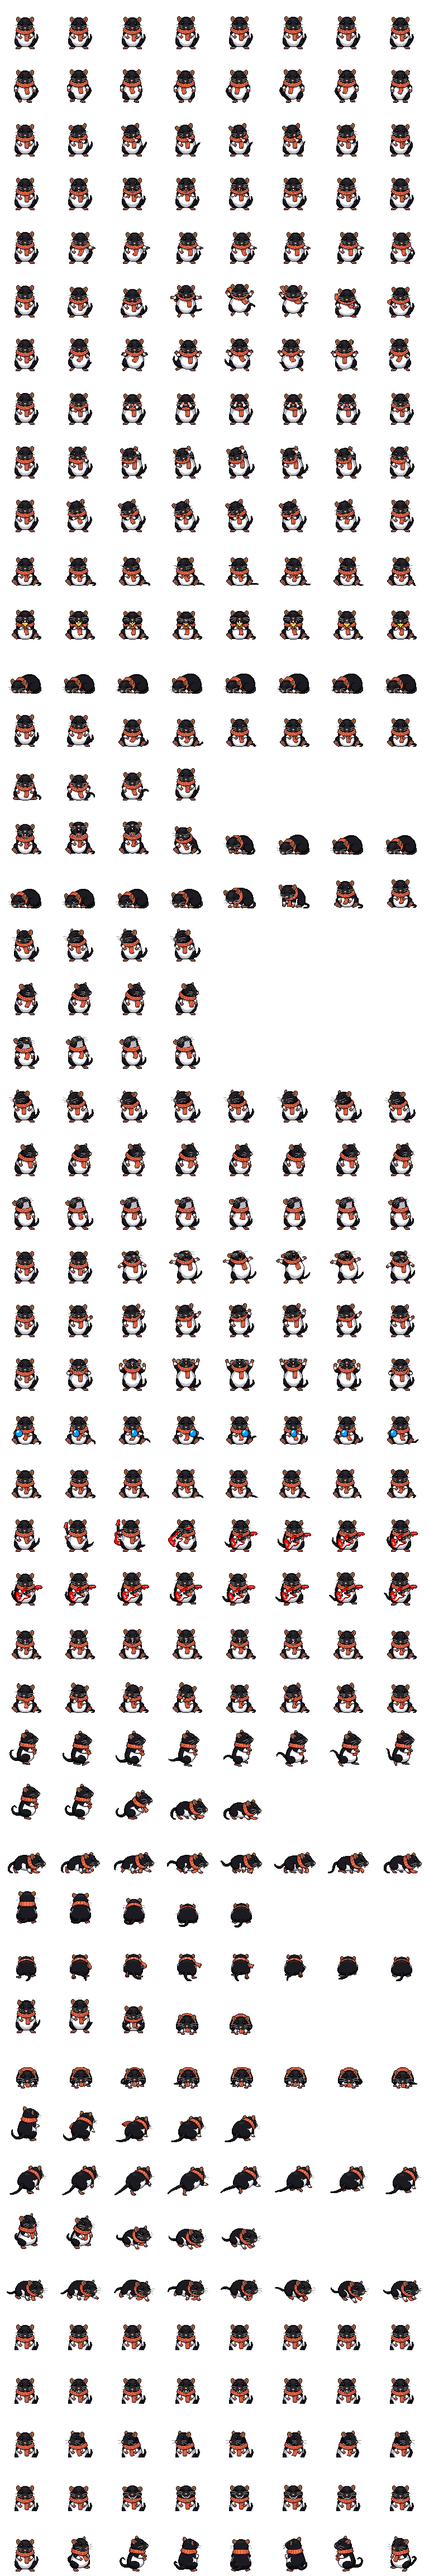
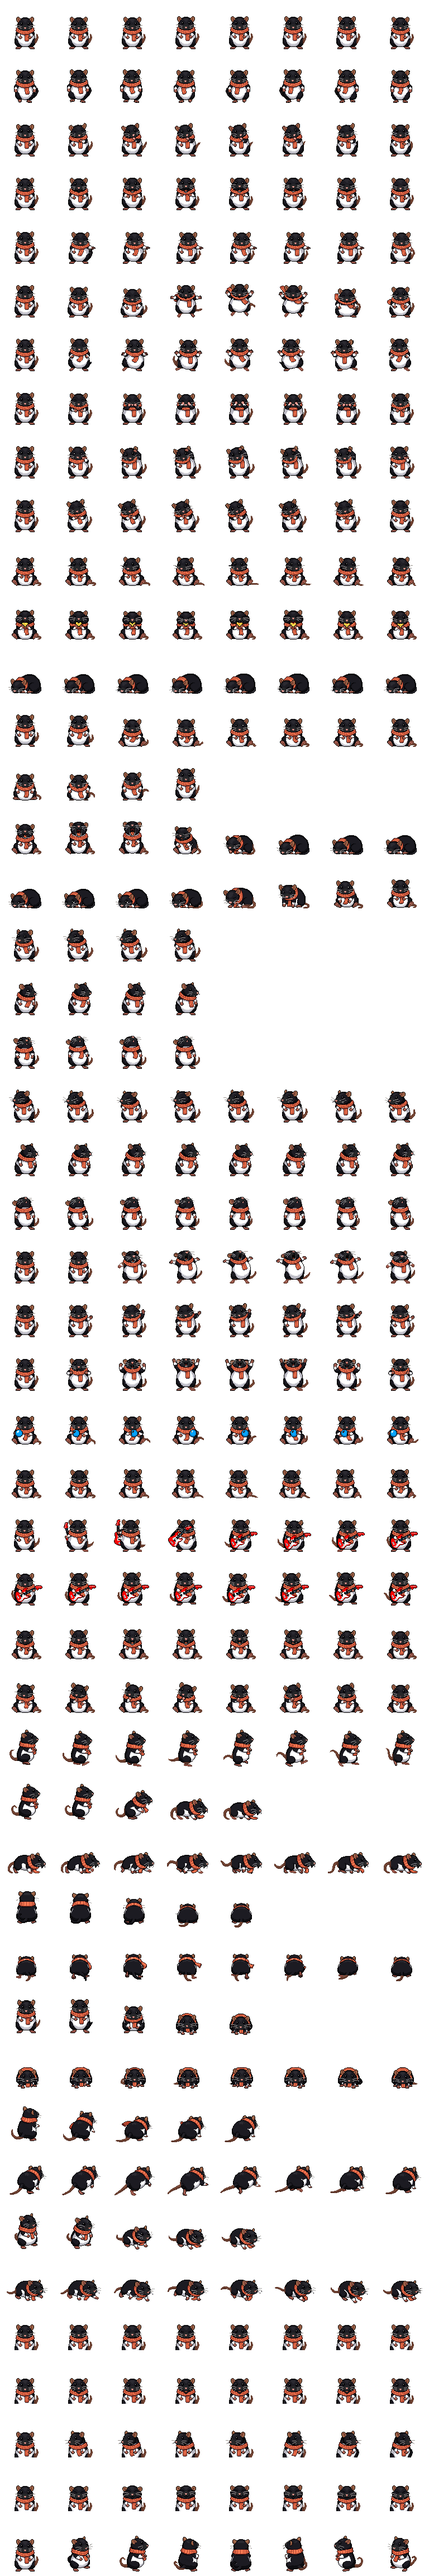
Dengas mais calmo: idle com pausas, gracinhas raras, cochilo, baixo na mao; rabo marrom e rosto preto no atlas

diff --git a/modelos/dengas/dengas.js b/modelos/dengas/dengas.js
@@ -72,7 +72,7 @@ const msgsEl = painel.querySelector('#dgMsgs'), chipsEl = painel.querySelector('
 
 /* ---------- onde ele está: (x, y) é o ponto dos pés ---------- */
 const salvo = Mesa.le('mesa-dengas', {});
-const D = { bolinha:salvo.bolinha || null, x:salvo.x ?? null, y:salvo.y ?? null, vy:0, dir:'e', alvo:null, modo:'parado', em:null, lado:1, alvoX:null, pose:'pe', pego:null, aberto:false, pensando:false, falandoAte:0, mouse:{ x:0, y:0, at:0 }, passeioEm:performance.now() + rnd(9000, 16000) };
+const D = { bolinha:salvo.bolinha || null, baixo:!!salvo.baixo, dorme:false, x:salvo.x ?? null, y:salvo.y ?? null, vy:0, dir:'e', alvo:null, modo:'parado', em:null, lado:1, alvoX:null, pose:'pe', pego:null, aberto:false, pensando:false, falandoAte:0, mouse:{ x:0, y:0, at:0 }, passeioEm:performance.now() + rnd(40000, 70000) };
 const chao = () => area().h - 24;   // ele pisa em cima do banquinho fundido na beira de baixo
 // superfícies onde ele pode ficar: a beira de baixo e o topo de cada widget (com espaço pra ele em cima)
 function superficies(){
@@ -81,7 +81,7 @@ function superficies(){
   return l;
 }
 function superficieAbaixo(x, y){ let m = null; for (const s of superficies()) if (x >= s.x0 - 20 && x <= s.x1 + 20 && s.y >= y - 6 && (!m || s.y < m.y)) m = s; return m || superficies()[0]; }
-function guardaLugar(){ Mesa.grava('mesa-dengas', { x:Math.round(D.x), y:Math.round(D.y), bolinha:D.bolinha }); }
+function guardaLugar(){ Mesa.grava('mesa-dengas', { x:Math.round(D.x), y:Math.round(D.y), bolinha:D.bolinha, baixo:D.baixo }); }
 const R_BOLA = 32, MARGEM = R_BOLA + 6;
 // onde a bolinha fica: grudada no lado (e no canto, se for canto), sempre inteira na tela
 function lugarBola(b){ const A = area(); return { x:b.lado === 'l' ? MARGEM : A.w - MARGEM, y:b.vert === 't' ? MARGEM : b.vert === 'b' ? A.h - MARGEM : clamp(b.y, MARGEM, A.h - MARGEM) }; }
@@ -91,38 +91,70 @@ function trocou(){ raiz.classList.remove('troca'); void raiz.offsetWidth; raiz.c
 const RASTRO = { arrasto:null, andou:null };
 Mesa.diagFonte('dengas', () => ({ x:Math.round(D.x), y:Math.round(D.y), modo:D.modo, pose:D.pose, alvo:D.alvo, area:area(), chao:chao(), limites:{ x:[30, area().w - 30], y:[110, chao()] }, mouse:D.mouse, ...RASTRO }));
 
-/* ---------- animação ---------- */
-let clipes = [], atual = null, chave = '', extraEm = performance.now() + 6000;
+/* ---------- animação ----------
+   Calmo por padrão: o laço parado roda devagar e com pausas (ele fica paradinho respirando, olhando);
+   gracinhas (espreguiçar, coçar, brincar…) são raras, sem repetir a anterior; sem nada acontecendo por
+   uns minutos, ele senta e cochila. Com o baixo na mão (D.baixo) ele fica com o baixo, tocando e parando,
+   até guardar: não saca e guarda toda hora. */
+let clipes = [], atual = null, chave = '', extraEm = performance.now() + rnd(40000, 70000), ultimaGracinha = '';
 const clip = (a, o = {}) => ({ a, t0:0, ...o });
+const GRACINHAS_PE = ['espreguicando', 'cocando', 'curioso', 'gracinha', 'brincando', 'acenando'];
+const GRACINHAS_SENTADO = ['balancando', 'bolinha', 'comendo'];
+function gracinha(lista){ const l = lista.filter(a => a !== ultimaGracinha); const a = sorteia(l); ultimaGracinha = a; return a; }
+// o laço calmo: uma volta devagar, depois parado num quadro por uns segundos
+const calmo = a => [clip(a, { ritmo:.6 }), clip(a, { segura:rnd(1800, 5200) })];
 function zonaOlhar(now){ if (now - D.mouse.at > 2600) return ''; const dx = D.mouse.x - D.x, dy = D.mouse.y - (D.y - 70); if (Math.hypot(dx, dy) < 130) return ''; if (dy < 0 && -dy > Math.abs(dx) * 1.2) return 'cima'; return dx < 0 ? 'esq' : 'dir'; }
 function proximos(now){
   const fala = now < D.falandoAte;
-  if (D.bolinha){ if (fala) return [clip('r_falando')]; if (D.pensando) return [clip('pensando')]; const r = Math.random(); return [clip(r < .6 ? 'r_piscando' : r < .86 ? 'r_olhando' : 'r_feliz')]; }
+  if (D.bolinha){ if (fala) return [clip('r_falando')]; if (D.pensando) return [clip('pensando')]; const r = Math.random(); return r < .7 ? [clip('r_piscando', { ritmo:.7 }), clip('r_piscando', { segura:rnd(2000, 5000) })] : [clip(r < .9 ? 'r_olhando' : 'r_feliz', { ritmo:.8 })]; }
   if (D.modo === 'andando') return [clip(nomeCorre())];
   if (D.pego || D.modo === 'caindo') return [clip('parado')];
+  if (D.baixo){
+    // com o baixo: toca um pouco, para segurando o baixo, toca de novo
+    if (fala || D.pensando) return [clip('tocando_baixo', { segura:900 })];
+    return Math.random() < .55 ? [clip('tocando_baixo', { ritmo:.75 }), clip('tocando_baixo', { ritmo:.75 })] : [clip('tocando_baixo', { segura:rnd(1500, 4000) })];
+  }
   if (D.pose === 'sentado'){
+    if (D.dorme) return [clip('dormindo', { ritmo:.7 })];
     if (fala) return [clip('sentado_falando')];
     if (D.pensando) return [clip('sentado_pensando')];
-    if (now > extraEm){ extraEm = now + rnd(7000, 15000); const a = sorteia(['balancando', 'bolinha', 'comendo', 'balancando']); return [clip(a), clip(a)]; }
-    return [clip('observando')];
+    if (now > extraEm){ extraEm = now + rnd(50000, 120000); const a = gracinha(GRACINHAS_SENTADO); return [clip(a, { ritmo:.85 }), clip(a, { ritmo:.85 })]; }
+    return calmo('observando');
   }
   if (fala) return [clip('falando')];
   if (D.pensando) return [clip('pensando')];
   const z = zonaOlhar(now);
-  if (z) return [clip('t_olha_' + z), clip('olhando_' + z, { laco:() => zonaOlhar(performance.now()) === z && !D.pego && D.modo === 'parado' }), clip('t_olha_' + z, { rev:true })];
-  if (now > extraEm){ extraEm = now + rnd(8000, 16000); return [clip(sorteia(['espreguicando', 'cocando', 'curioso', 'gracinha', 'brincando', 'acenando']))]; }
-  return [clip('parado')];
+  if (z) return [clip('t_olha_' + z), clip('olhando_' + z, { ritmo:.7, laco:() => zonaOlhar(performance.now()) === z && !D.pego && D.modo === 'parado' }), clip('t_olha_' + z, { rev:true })];
+  if (now > extraEm){ extraEm = now + rnd(45000, 110000); return [clip(gracinha(GRACINHAS_PE), { ritmo:.85 })]; }
+  return calmo('parado');
 }
 function toca(lista){ clipes = lista; atual = null; }
+// cochilo: sentado e sem ninguém mexendo por perto há 3 min, ele dorme; mexeu o mouse perto, clicou ou falou, acorda
+let quietoDesde = performance.now();
+function cochilo(now){
+  if (D.dorme){ if (D.aberto || D.pensando || now < D.falandoAte || D.baixo || D.pose !== 'sentado') acorda(); return; }
+  if (D.pose === 'sentado' && !D.bolinha && !D.baixo && !D.aberto && !D.pensando && now - quietoDesde > 180000){ D.dorme = true; toca([clip('t_sentado_dormindo')]); }
+}
+function acorda(){ quietoDesde = performance.now(); if (!D.dorme) return; D.dorme = false; toca([clip('t_dormindo_sentado')]); }
+// o mini baixo: saca uma vez e fica com ele até guardar
+function pegaBaixo(sim){
+  sim = !!sim; if (D.baixo === sim) return false;
+  if (D.bolinha) desvirarBola();
+  acorda(); if (D.pose === 'sentado'){ D.pose = 'pe'; raiz.classList.remove('sentado'); }
+  D.baixo = sim; D.alvo = null; guardaLugar();
+  toca([clip('t_baixo', sim ? {} : { rev:true })]); chave = 'troca-baixo';
+  return true;
+}
 function senta(sim){
   if ((D.pose === 'sentado') === sim) return;
   D.pose = sim ? 'sentado' : 'pe'; raiz.classList.toggle('sentado', sim);
   toca([clip(sim ? 't_parado_sentado' : 't_sentado_parado')]); chave = '';
 }
 function desenha(now){
-  const k = (D.bolinha ? 'b' : '') + D.modo + D.pose + (D.pensando ? 't' : '') + (now < D.falandoAte ? 'f' : '') + (D.pego ? 'd' : '');
-  if (k !== chave){ if (chave && ![atual, clipes[0]].some(q => q && /^t_(parado_sentado|sentado_parado|quatro_\w+)$/.test(q.a))) { clipes = []; atual = null; } chave = k; }
-  let m = atual && AT.anims[atual.a], c = m ? Math.floor((now - atual.t0) * m.fps / 1000) : 0;
+  const k = (D.bolinha ? 'b' : '') + (D.baixo ? 'B' : '') + (D.dorme ? 'z' : '') + D.modo + D.pose + (D.pensando ? 't' : '') + (now < D.falandoAte ? 'f' : '') + (D.pego ? 'd' : '');
+  if (k !== chave){ if (chave && ![atual, clipes[0]].some(q => q && /^t_(parado_sentado|sentado_parado|quatro_\w+|baixo|sentado_dormindo|dormindo_sentado)$/.test(q.a))) { clipes = []; atual = null; } chave = k; }
+  let m = atual && AT.anims[atual.a], c = m ? Math.floor((now - atual.t0) * m.fps * (atual.ritmo || 1) / 1000) : 0;
+  if (m && atual.segura) c = now - atual.t0 < atual.segura ? 0 : m.n;
   if (!m || c >= m.n){
     if (m && atual.laco && atual.laco()) atual.t0 = now;
     else { if (!clipes.length) clipes = proximos(now); atual = clipes.shift(); atual.t0 = now; m = AT.anims[atual.a] || AT.anims.parado; }
@@ -165,8 +197,9 @@ function passo(now){
       }
     } else {
       if (D.modo === 'andando') D.modo = 'parado';
-      if (D.pose === 'pe' && !D.aberto && !D.pensando && now > (D.sentaEm || Infinity) && now > D.falandoAte){ senta(true); D.sentaEm = null; }
-      if (!D.bolinha && !D.aberto && !D.pensando && now > D.passeioEm && now - D.mouse.at > 4000){ D.passeioEm = now + rnd(16000, 38000); vai(rnd(60, A.w - 60), rnd(170, chao())); }
+      cochilo(now);
+      if (D.pose === 'pe' && !D.baixo && !D.aberto && !D.pensando && now > (D.sentaEm || Infinity) && now > D.falandoAte){ senta(true); D.sentaEm = null; }
+      if (!D.bolinha && !D.baixo && !D.dorme && !D.aberto && !D.pensando && now > D.passeioEm && now - D.mouse.at > 4000){ D.passeioEm = now + rnd(50000, 120000); vai(rnd(60, A.w - 60), rnd(170, chao())); }
     }
   }
   if (D.bolinha){ D.x = clamp(D.x, MARGEM, A.w - MARGEM); D.y = clamp(D.y, MARGEM, A.h - MARGEM); } else { D.x = clamp(D.x, 30, A.w - 30); D.y = clamp(D.y, 110, chao()); }
@@ -178,11 +211,11 @@ function passo(now){
 const reduzido = matchMedia('(prefers-reduced-motion: reduce)').matches;
 atlas.onload = () => Mesa.quadro(passo);
 if (atlas.complete && atlas.naturalWidth) Mesa.quadro(passo);
-bus.on('mesa:mouse', p => { if (Math.abs(p.x - D.mouse.x) + Math.abs(p.y - D.mouse.y) > 3){ D.mouse.x = p.x; D.mouse.y = p.y; D.mouse.at = performance.now(); } });
+bus.on('mesa:mouse', p => { if (Math.abs(p.x - D.mouse.x) + Math.abs(p.y - D.mouse.y) > 3){ D.mouse.x = p.x; D.mouse.y = p.y; D.mouse.at = performance.now(); if (Math.hypot(p.x - D.x, p.y - D.y) < 220) acorda(); } });
 
 /* pegar e soltar: vira arrasto depois de 4 px; soltou, ele cai até a superfície de baixo */
 let gesto = null;
-hit.addEventListener('pointerdown', e => { if (e.button !== 0) return; gesto = { id:e.pointerId, x0:e.clientX, y0:e.clientY, on:false }; });
+hit.addEventListener('pointerdown', e => { if (e.button !== 0) return; acorda(); gesto = { id:e.pointerId, x0:e.clientX, y0:e.clientY, on:false }; });
 hit.addEventListener('pointermove', e => {
   if (!gesto || e.pointerId !== gesto.id) return;
   if (e.buttons === 0) return larga();
@@ -234,6 +267,7 @@ function pintaChips(){
   chipsEl.replaceChildren();
   const l = [];
   for (const d of Mesa.defs()) if (!Mesa.aberto(d.id) && l.length < 3) l.push(['Abrir ' + d.nome, () => { Mesa.abre(d.id); pintaChips(); }]);
+  l.push(D.baixo ? ['Guardar o baixo', () => { pegaBaixo(false); fala('Depois a gente toca mais.'); pintaChips(); }] : ['Bora tocar', () => { pegaBaixo(true); fala('Vamos lá!'); pintaChips(); }]);
   l.push(['Organiza a mesa', () => pergunta('Organiza os widgets abertos de um jeito bom pra esta tela, sem sobrepor.')]);
   if (Mesa.aberto('musica')) l.push(['O que tá tocando?', () => pergunta('O que tá tocando?')]);
   for (const [t, fn] of l.slice(0, 5)){ const b = document.createElement('button'); b.type = 'button'; b.className = 'dg-chip'; b.textContent = t; b.addEventListener('click', fn); chipsEl.appendChild(b); }
@@ -420,6 +454,9 @@ function ferramentas(atos){
     { name:'mesa_app', description:'Abre ou fecha um app original hospedado na Mesa (os ids estão em "apps" e nos disponíveis do estado; ex.: onda, orbita).',
       inputSchema:{ type:'object', properties:{ acao:{ type:'string', enum:['abrir','fechar'] }, id:{ type:'string' } }, required:['acao','id'] },
       execute({ acao, id }){ if (!Mesa.hospedes().some(h => h.id === id)) throw new Error('apps disponíveis: ' + Mesa.hospedes().map(h => h.id).join(', ')); acao === 'fechar' ? Mesa.fechaHospede(id) : Mesa.abreHospede(id); nota((acao === 'fechar' ? '× ' : '↗ ') + id); return 'feito'; } },
+    { name:'baixo', description:'Seu mini baixo. acao "pegar": quando o dono vai tocar, estudar ou praticar música, você saca o baixo e fica com ele na mão (diga algo como "vamos lá"). acao "guardar": quando ele terminar ou mudar de assunto. Não pegue e guarde à toa.',
+      inputSchema:{ type:'object', properties:{ acao:{ type:'string', enum:['pegar', 'guardar'] } }, required:['acao'] },
+      execute({ acao }){ const mudou = pegaBaixo(acao === 'pegar'); return mudou ? (acao === 'pegar' ? 'baixo na mão' : 'baixo guardado') : 'já estava assim'; } },
     { name:'lembrar', description:'Guarda uma frase curta sobre o dono (gosto, hábito, preferência) pra lembrar nas próximas conversas.',
       inputSchema:{ type:'object', properties:{ nota:{ type:'string' } }, required:['nota'] },
       execute({ nota:n }){ n = String(n || '').trim().slice(0, 160); if (!n) throw new Error('nota vazia'); mem.notas = ((mem.notas ? mem.notas + ' ' : '') + n).slice(-900); guardaMem(); nota('✎ anotado'); return 'guardado'; } },

diff --git a/apps/dengas/refinos.md b/apps/dengas/refinos.md
@@ -9,3 +9,9 @@
 - **Pedido:** batendo ele num canto de baixo, ele não virava a bolinha.
 - **O que:** solto ou arremessado perto de uma lateral (110 px, a posição projetada pelo embalo de 0,15 s), vira o disco de 64 px só com o rostinho (piscando, olhando, feliz, falando; recorte 52 × 52 do atlas a partir de 22, 24, como no Dengas do molde do Eco), com o anel coral, e gruda: canto se também estiver perto de cima ou de baixo, senão na lateral, na altura em que soltou. Puxou, volta a ser o ratinho inteiro. Na bolinha ele não passeia; balão e conversa saem dela.
 - **Testado:** simulador (canto de baixo à direita, canto de baixo à esquerda, lateral direita, puxar de volta, clique abre a conversa). **Não testado:** no app instalado.
+
+## 2026-11-27 · Mais calmo, baixo na mão, rabinho marrom e rosto preto
+- **Pedido:** "ta mto agitado, as animacoes estao mto rapidas e repetitivas"; gracinhas só de vez em quando; idle paradinho; tocar baixo sem sacar e guardar toda hora; rabinho marrom como orelhas e patas; rosto todo preto, sem branco no queixo.
+- **O que:** laço parado e sentado em 60 % da velocidade, com pausas de 1,8 a 5,2 s num quadro; gracinhas a cada 45 a 120 s, sem repetir a última; passeio a cada 50 a 120 s; sentado e quieto há 3 min, cochila (acorda com o mouse a menos de 220 px, clique ou fala). Baixo: estado `D.baixo` (salvo), saca uma vez (`t_baixo`), alterna tocar e segurar parado, guarda ao contrário; ferramenta `baixo` (pegar/guardar) pro Claude e chip "Bora tocar" / "Guardar o baixo".
+- **Arte (sem geração):** o atlas foi repintado por script: rabo inteiro na rampa marrom das orelhas (todas as linhas), e o branco e o cinza do queixo, dos dentes e da garganta (olhando pra cima) viraram pelo preto. Bigodes e brilho dos olhos ficaram.
+- **Testado:** simulador (sequência de quadros: parado com pausas, saca o baixo uma vez e fica tocando/segurando). **Não testado:** no app instalado, cochilo de 3 min.
